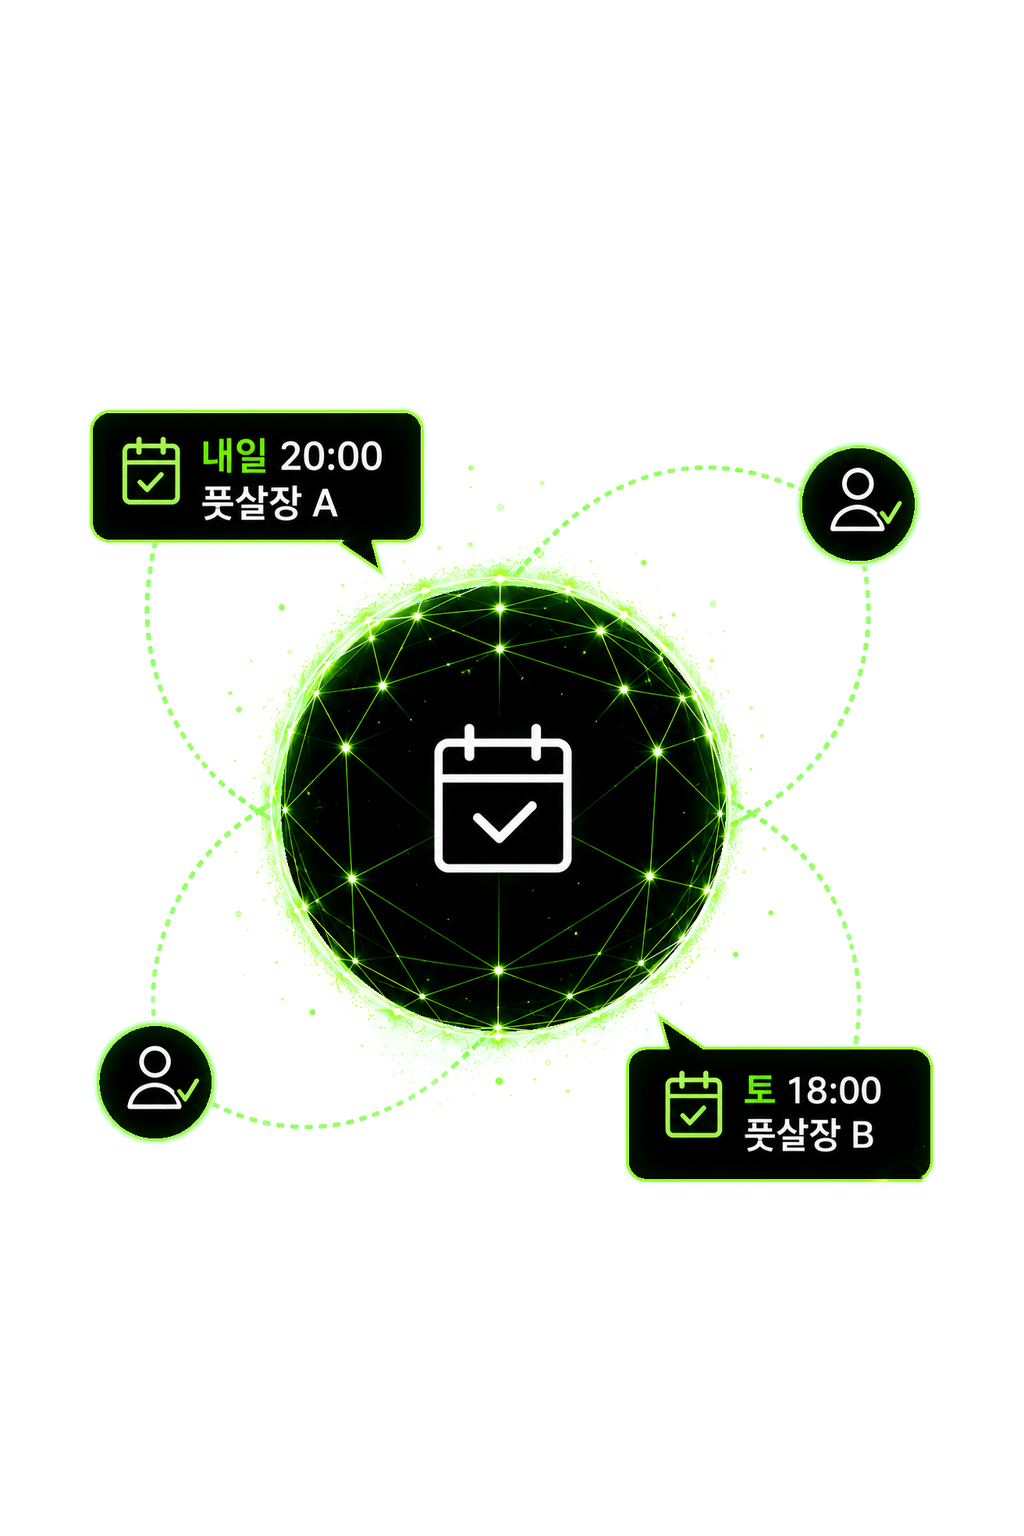
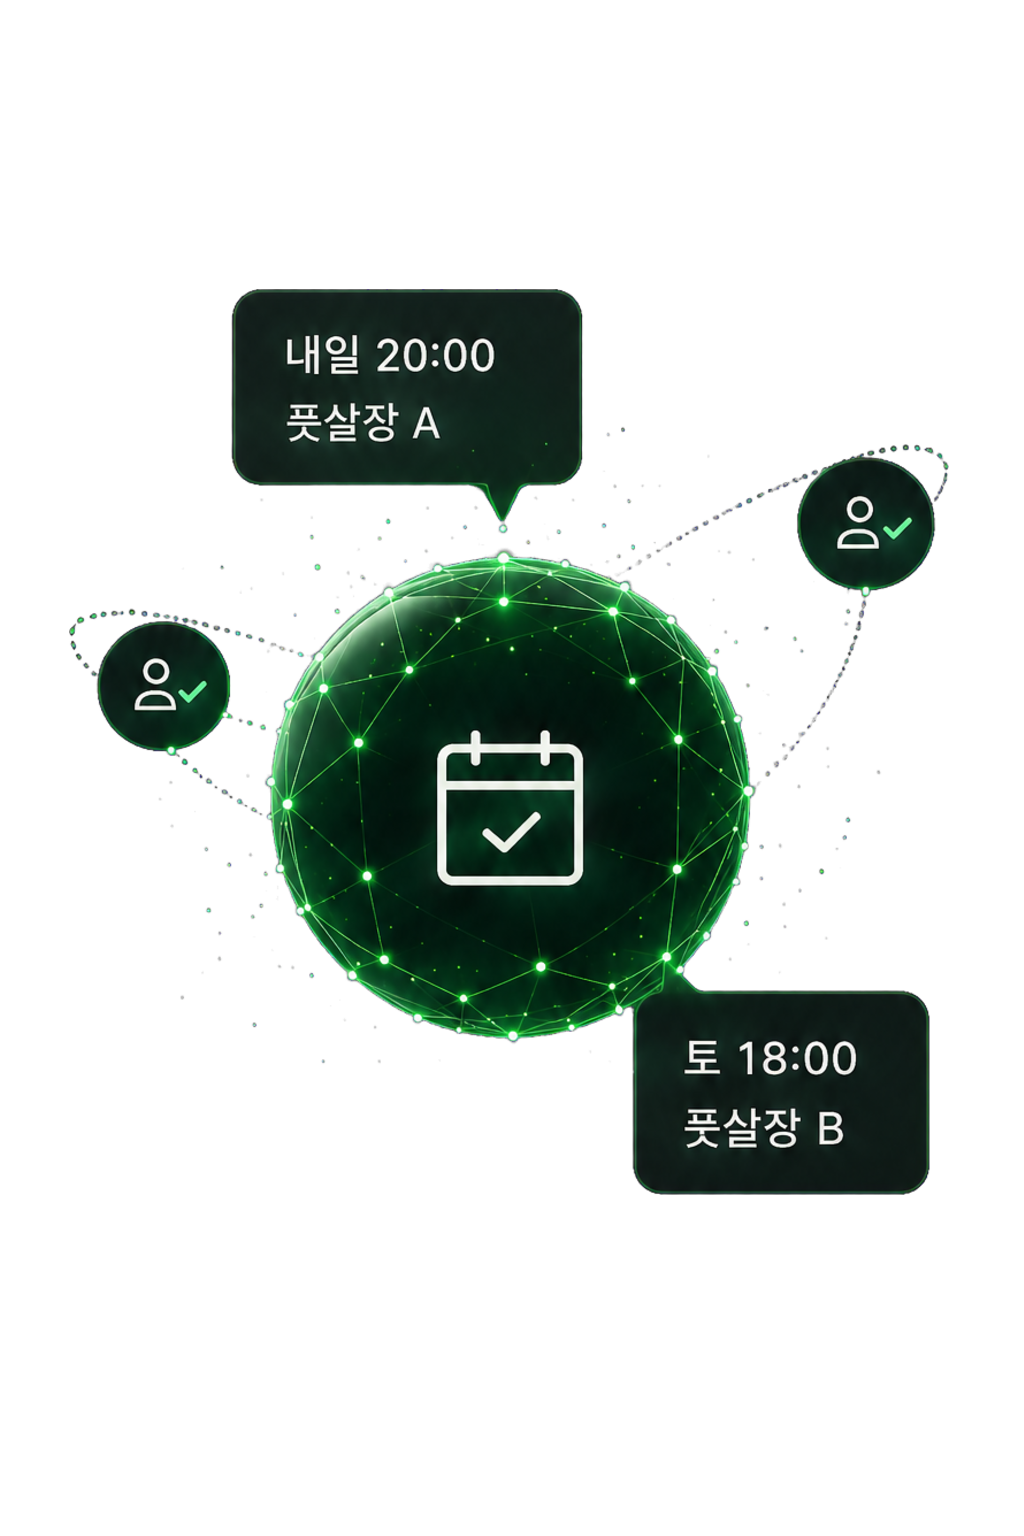
feat: 온보딩 4번째(팀 나누기)/5번째(회비 정산) 슬라이드 이미지 적용
onbording-4.png(참석 인원 그룹핑), onbording-5.png(정산 내역 카드) 이미지로
슬라이드 4/5(인덱스 4,5)를 01/02와 동일한 패턴으로 구현. "04"/"05" 스텝
라벨 추가. 두 이미지 모두 1024x1536(1.5:1)이라 introImageWidth/Height
그대로 재사용.

onbording-3.png는 사용자가 교체한 최신 버전으로 갱신.

diff --git a/src/features/onboarding/screens/OnboardingScreen.tsx b/src/features/onboarding/screens/OnboardingScreen.tsx
@@ -154,6 +154,42 @@ export function OnboardingScreen({ onDone }: OnboardingScreenProps) {
                 </Text>
               </View>
             </View>
+          ) : i === 4 ? (
+            <View
+              key={i}
+              style={[styles.slide, styles.introSlide, { width: SCREEN_WIDTH, marginTop: introSlideMarginTop }]}
+            >
+              <Image
+                source={require('../../../../assets/onbording-4.png')}
+                style={{ width: introImageWidth, height: introImageHeight, marginHorizontal: -12 }}
+                resizeMode="contain"
+              />
+              <View style={[styles.featureTextBlock, { marginTop: introTextMarginTop }]}>
+                <Text style={styles.stepNumber}>04</Text>
+                <Text style={[styles.title, styles.centerText, styles.featureTitleSize]}>{slide.title}</Text>
+                <Text style={[styles.subtitle, styles.centerText, styles.featureSubtitleSize]}>
+                  {slide.subtitle}
+                </Text>
+              </View>
+            </View>
+          ) : i === 5 ? (
+            <View
+              key={i}
+              style={[styles.slide, styles.introSlide, { width: SCREEN_WIDTH, marginTop: introSlideMarginTop }]}
+            >
+              <Image
+                source={require('../../../../assets/onbording-5.png')}
+                style={{ width: introImageWidth, height: introImageHeight, marginHorizontal: -12 }}
+                resizeMode="contain"
+              />
+              <View style={[styles.featureTextBlock, { marginTop: introTextMarginTop }]}>
+                <Text style={styles.stepNumber}>05</Text>
+                <Text style={[styles.title, styles.centerText, styles.featureTitleSize]}>{slide.title}</Text>
+                <Text style={[styles.subtitle, styles.centerText, styles.featureSubtitleSize]}>
+                  {slide.subtitle}
+                </Text>
+              </View>
+            </View>
           ) : (
             <View key={i} style={[styles.slide, { width: SCREEN_WIDTH }]}>
               <View style={styles.illustrationCard}>
